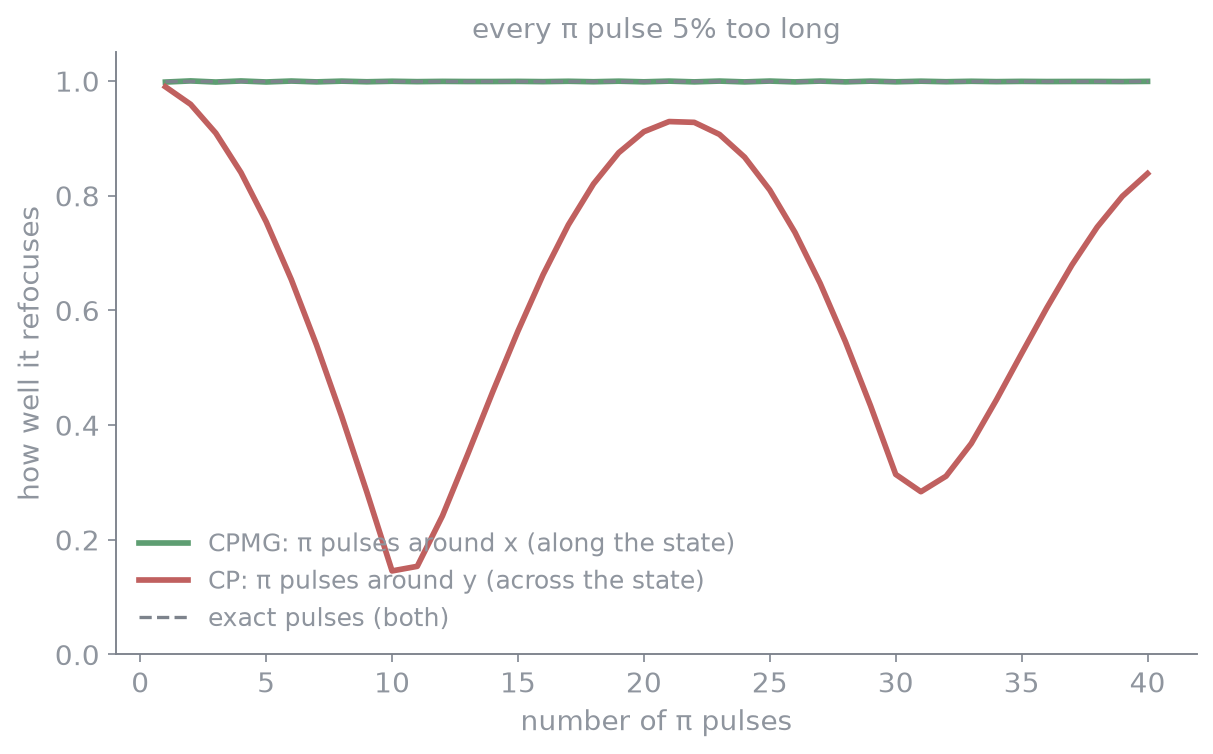
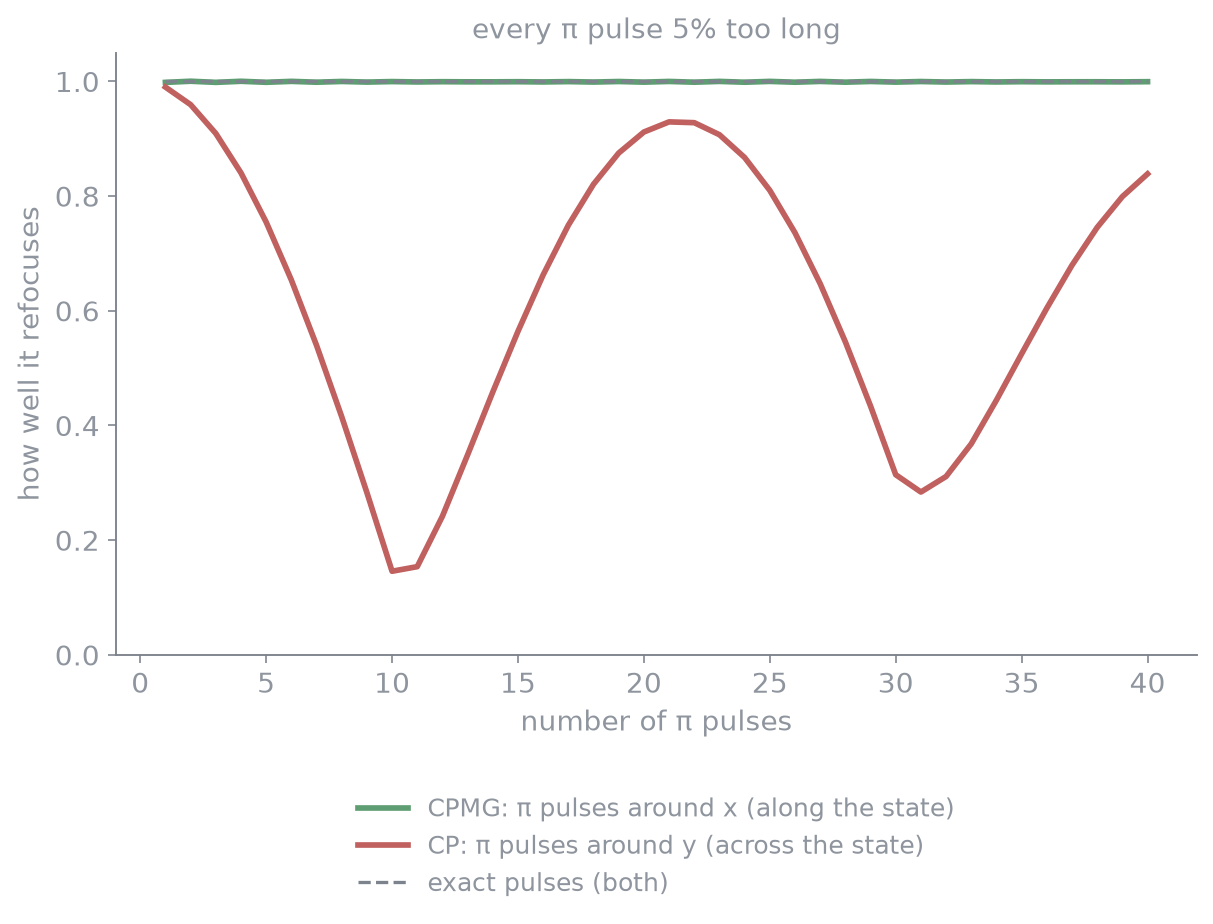
Enhance dynamical decoupling and rotary echo documentation with new examples and animations; update images for clarity

diff --git a/Course 4/Week 3/Dynamical error suppression/Dynamical decoupling.md b/Course 4/Week 3/Dynamical error suppression/Dynamical decoupling.md
@@ -3,6 +3,10 @@
 a flux qubit with magnetic flux noise ([[Dephasing and the filter function]]). the dephasing depends on the noise spectrum **seen through a filter function**, and the filter function comes from the pulses we apply. so which pulses help? three examples, from worst to best. part of [[Quantum error mitigation]]
 
 the noise here is **1/f noise** ([[Noise spectra]]): big at low frequencies, falling as $1/f$. take it to be **quasi-static**: fixed during any one run, different from run to run (some probability distribution). work in the **rotating frame**, where with no noise the Bloch vector would just sit still along $x$
+
+all the sequences on one page (the rotary echo is in [[Rotary echo]]):
+
+![[Pulse_sequences.png]]
 ## Ramsey: do nothing (n = 0)
 1. a $\frac\pi2$ pulse around $y$ brings the Bloch vector down to the equator, pointing along $x$
 2. wait a time $\tau$ (free evolution)
@@ -15,6 +19,13 @@ why, in frequency: during the wait, the energy offset of one run is constant, a 
 put a $\pi$ pulse in the **middle** of the free evolution. it flips the Bloch vector over, so the runs that were drifting **away** from $x$ now drift **back towards** it, at the same speed. they all **refocus** right when the second $\frac\pi2$ pulse comes, and the vector lands on $|1\rangle$ again
 
 ![[Spin_echo_phases.png]]
+
+here it is running. think of the 5 arrows as 5 runners on the equator, each a bit faster or slower (a different noise offset). the caption says what each step does, the bar at the bottom shows where you are in the sequence, and the green ring is where everyone should finish:
+
+![[Spin_echo_animation.png]]
+
+- **left, exact pulses**: the runs fan out, the $\pi$ pulse flips them, they fan back in, and **all** land on $|1\rangle$
+- **right, every pulse 25% too long**: the overshooting pulses tip the runs **off the equator** (the first $\frac\pi2$ goes past it, and the $\pi$ pulse tips them further). they still drift back together sideways, but they're now at different heights, so they never meet again: only 90% land on $|1\rangle$ on average
 
 the evolution is now two half periods: a rectangle with sign $+$, then one with sign $-$ (the $\pi$ pulse inverted the system). their filter function
 
@@ -46,6 +57,40 @@ flowchart TD
     E --> C["CPMG, n pulses<br/>filter moves higher with n"]
     C --> T["less 1/f noise gets through<br/>T₂ → 2T₁"]
 ```
+## what if the π pulses overshoot?
+real pulses are never exactly $\pi$: the amplitude or length is a bit off, so every pulse rotates a bit too far. with one pulse that's a small error. with CPMG's dozens of pulses, could the errors **pile up**? it depends on **which axis** the $\pi$ pulses turn around
+- **CPMG**: the $\pi$ pulses turn around $x$, the **same axis the state points along** (the first $\frac\pi2$ pulse put it on $x$). turning a vector around its own axis does nothing to it, so turning too far does nothing either. the small leftover errors from the noise drift also flip sign from pulse to pulse and cancel
+- **CP** (Carr and Purcell, the older version): the $\pi$ pulses turn around $y$, **across** the state. each pulse that's 5% too long leaves the vector $9°$ off, and these $9°$s **add up**: after 10 pulses it's $90°$ off, pointing nowhere near where it should
+
+![[Overshoot_CP_vs_CPMG.png]]
+
+that's why CPMG has the "MG" (Meiboom and Gill): they made it robust to pulse errors by turning the $\pi$ pulses $90°$, from $y$ to $x$. (the CP curve swings back up because the extra rotation keeps going round: after about 20 pulses it's $180°$ off, pointing along $-x$, and the plot only measures how far along the $x$ axis it is, either way)
+
+> [!extra]- the sequences as code
+> the whole family in [Qiskit](https://www.qiskit.org/): $n=0$ is Ramsey, $n=1$ the spin echo, $n>1$ CPMG with the $\pi$ pulses at $\frac{j-1/2}n\,T$
+> ```python
+> from math import pi
+> from qiskit import QuantumCircuit
+>
+> def cpmg(n, T=800, overshoot=0.0):
+>     """n = 0: Ramsey, n = 1: spin echo, n > 1: CPMG. total wait T ns."""
+>     f = 1 + overshoot                    # 0.05 = every pulse 5% too long
+>     qc = QuantumCircuit(1)
+>     qc.ry(f * pi / 2, 0)                 # π/2: onto the equator, along x
+>     if n == 0:
+>         qc.delay(T, 0, unit="ns")        # just wait
+>     else:
+>         qc.delay(T // (2 * n), 0, unit="ns")
+>         for j in range(n):
+>             qc.rx(f * pi, 0)             # π pulse around x (along the state)
+>             qc.delay(T // n if j < n - 1 else T // (2 * n), 0, unit="ns")
+>     qc.ry(f * pi / 2, 0)                 # π/2: read out, ideally |1⟩
+>     qc.measure_all()
+>     return qc
+>
+> print(cpmg(4).draw())
+> ```
+> `cpmg(4)` is π/2, then 100 ns, π, 200 ns, π, 200 ns, π, 200 ns, π, 100 ns, then π/2. with `overshoot=0.05` the noise free circuit still lands on $|1\rangle$ more than 99% of the time. change `qc.rx` to `qc.ry` to get CP and watch the error grow with `n`. on real hardware the `delay`s are where the noise acts
 ## noise spectroscopy
 CPMG with many pulses has a **narrow** passband, centred near $\omega\approx\pi n/t$. change $n$ (or $t$) and the narrow filter slides around in frequency. measure how much the qubit dephases each time, and you can **reconstruct the noise spectrum** $S(\omega)$ the qubit sees: the qubit plus pulses becomes a **noise spectrometer**
 
@@ -68,11 +113,13 @@ flowchart TD
 > ① in a spin echo with total time $t$, when exactly is the $\pi$ pulse, and why does it have to be there?
 > ② why does the spin echo refocus quasi-static noise **perfectly**, but CPMG still helps for real 1/f noise?
 > ③ CPMG with $n=4$ pulses over $t=8\,\mu$s: when are the pulses?
+> ④ every $\pi$ pulse is 2% too long. with CP pulses (around $y$), about how far off is the state after 25 pulses? and with CPMG?
 
 > [!answer]-
 > ① at $t/2$: the phase gathered in the first half ($+\delta\omega\,t/2$) is cancelled by the second half ($-\delta\omega\,t/2$) only if the halves are equally long
 > ② quasi-static noise is constant during a run, so any equal $+$ and $-$ periods cancel it exactly. real 1/f noise also changes during the run; the echo only cancels the part slower than $t$, and more pulses (shorter periods) also cancel the faster parts
 > ③ at $\frac{j-1/2}4\times8=1,3,5,7\,\mu$s
+> ④ 2% of $180°$ is $3.6°$ per pulse, and with CP these add up: $25\times3.6°=90°$ off. with CPMG the pulses turn around the axis the state points along, so it stays (almost) where it should
 
 see also [[Rotary echo]] (the same trick during a drive), [[Noise power spectral density]], [[Bloch sphere]]
 

diff --git a/Course 4/Week 3/Dynamical error suppression/Rotary echo.md b/Course 4/Week 3/Dynamical error suppression/Rotary echo.md
@@ -15,6 +15,21 @@ R_{-x}(\Omega t/2)\,R_x(\Omega t/2)=I\qquad\text{for any }\Omega
 $$
 ^rotary-echo
 
+"for any $\Omega$" includes a drive that's simply **too strong**: an overshoot. read the animation like a table:
+- **rows**: the drive is just right (top) or 25% too strong (bottom)
+- **columns**: the drive is left on the whole time (left, grey) or reversed halfway, the rotary echo (right, purple)
+
+the green ring is the target, $|0\rangle$, and the bar at the bottom shows when the drive gets reversed:
+
+![[Rotary_echo_animation.png]]
+
+- **just right**: both get back to $|0\rangle$ (a full $2\pi$ turn either way)
+- **25% too strong**: without the reversal the qubit turns $2.5\pi$ and ends up on the equator, so a measurement gives $|0\rangle$ only half the time. with the reversal it retraces its path exactly and is back at $|0\rangle$
+
+where it sits next to the other sequences:
+
+![[Pulse_sequences.png]]
+
 > [!important] the one idea
 > ==reversing the drive undoes any amplitude error, whatever its size, just as a $\pi$ pulse undoes any phase drift in a spin echo==
 
@@ -24,6 +39,21 @@ flowchart TD
     B --> C["reverse: drive along −x for t/2"]
     C --> D["every run back at |0⟩"]
 ```
+> [!extra]- the rotary echo as code
+> in [Qiskit](https://www.qiskit.org/), a continuous drive for a time is just a rotation by the angle it turns through
+> ```python
+> from math import pi
+> from qiskit import QuantumCircuit
+>
+> def rotary_echo(theta, overshoot=0.0):
+>     f = 1 + overshoot            # 0.25 = drive 25% too strong
+>     qc = QuantumCircuit(1)
+>     qc.rx(f * theta, 0)          # drive along +x
+>     qc.rx(-f * theta, 0)         # drive reversed: along −x
+>     qc.measure_all()             # always |0⟩, whatever the overshoot
+>     return qc
+> ```
+> try `rotary_echo(pi, overshoot=0.25)`: it measures $|0\rangle$ every time. delete the second `rx` and add its angle to the first (`qc.rx(2 * f * theta, 0)`) to get the unreversed drive, which misses
 ## more reversals
 just like spin echo → CPMG, for noise that falls off with frequency one reversal can become **many**. each extra reversal pushes the filter function to higher frequencies. here the filter shapes the noise spectrum of the **drive amplitude** fluctuations, not of the qubit frequency
 
